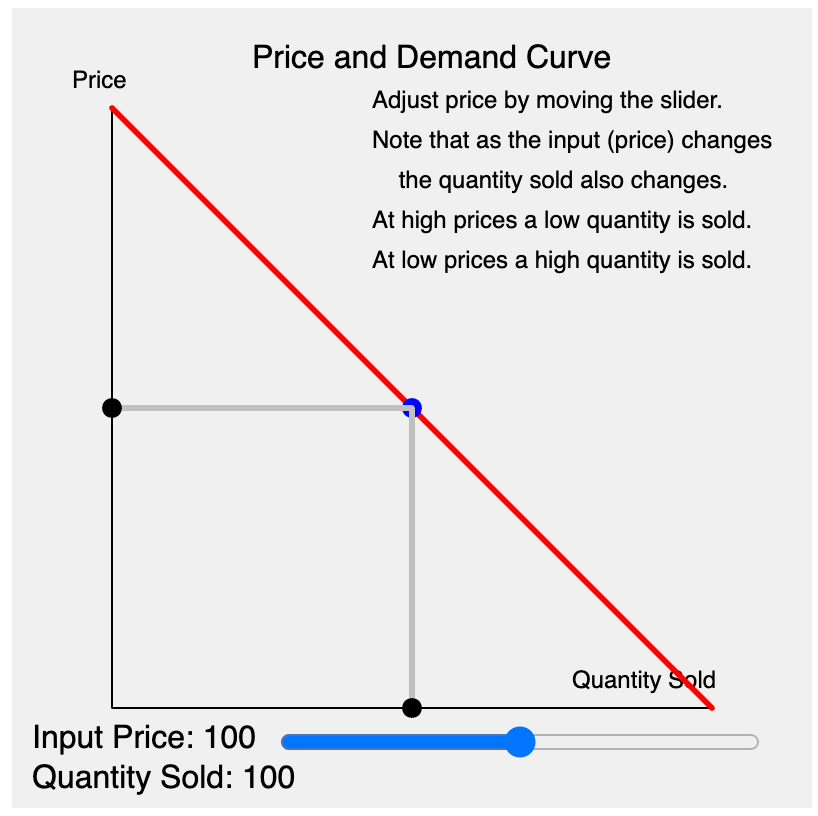
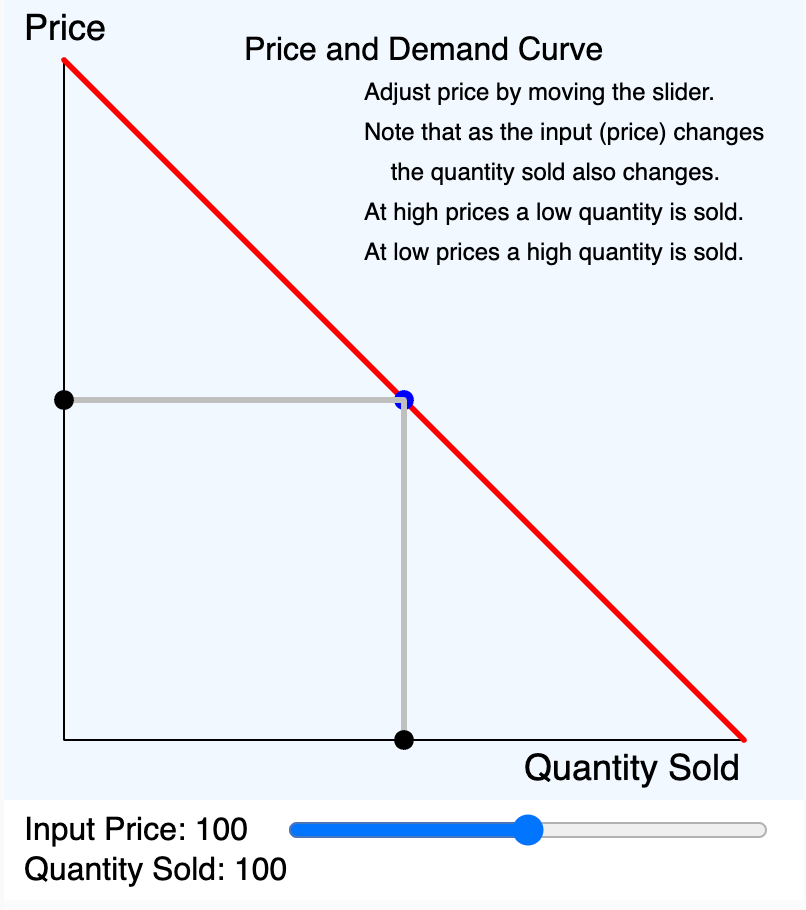
updating content

diff --git a/docs/sims/supply-and-demand/supply-and-demand.js b/docs/sims/supply-and-demand/supply-and-demand.js
@@ -1,6 +1,8 @@
-let width = 400;
-let height = 400;
-let margin = 50; // side around the plot
+let canvasWidth = 400;
+let drawHeight = 400;
+let canvasHeight = 450;
+let sliderLeftMargin = 120;
+let margin = 30; // side around the plot
 let priceSlider;
 let demandCurve;
 let maxPrice = 200;
@@ -10,21 +12,29 @@ let quantity = 100;
 let labelValueMargin = 140
 
 function setup() {
-  const canvas = createCanvas(width, height);
-  canvas.parent('canvas-container');
+  const canvas = createCanvas(canvasWidth, canvasHeight);
+  // canvas.parent('canvas-container');
+  var mainElement = document.querySelector('main');
+  canvas.parent(mainElement);
   textSize(16);
   
   // Create a slider element for price adjustment
   priceSlider = createSlider(0, maxPrice, price);
-  priceSlider.position(labelValueMargin, height - 35);
-  priceSlider.style('width', width - labelValueMargin - 20 + 'px');
+  priceSlider.position(labelValueMargin, drawHeight + 5);
+  priceSlider.size(canvasWidth - labelValueMargin - 20);
   
   // Define the demand curve as a function
   demandCurve = (p) => maxQuantity - p;
 }
 
 function draw() {
-  background(240);
+  // make the background drawing very light blue
+  fill('aliceblue');
+  rect(0, 0, canvasWidth, canvasWidth);
+  // make the background of the controls white
+  fill('white')
+  rect(0, drawHeight, canvasWidth, canvasHeight-drawHeight);
+
   
   // Update quantity based on the current value of the price slider
   price = priceSlider.value();
@@ -33,28 +43,33 @@ function draw() {
   // Draw the axes
   stroke(0);
   strokeWeight(1);
-  line(margin, margin, margin, height - margin); // Vertical Y-axis
+  // Vertical Y-axis
+  line(margin, margin, margin, drawHeight - margin); 
+  
   // Horizontal X axis
-  line(margin, height - margin, width - margin, height - margin);
+  line(margin, drawHeight - margin, canvasWidth - margin, drawHeight - margin);
   strokeWeight(0);
-  text('Price', 30, 40); // Y-axis label
-  text('Quantity Sold', width - margin - 70, height - margin - 10); // X-axis label
+  
+  textSize(18);
+  fill('black')
+  text('Price', 10, 20); // Y-axis label
+  text('Quantity Sold', canvasWidth - margin - 110, drawHeight - 10); // X-axis label
   
   // Draw the demand curve
   stroke(255, 0, 0);
   strokeWeight(3);
-  line(margin, margin, width - margin, height - margin);
+  line(margin, margin, drawHeight - margin, drawHeight - margin);
   
   // Draw a point on the demand curve based on current price and quantity
   fill(0, 0, 255);
   noStroke();
-  x = map(quantity, 0, maxQuantity, margin, height - margin)
+  x = map(quantity, 0, maxQuantity, margin, drawHeight - margin)
   y = map(price, 0, maxPrice, width - margin, margin)
   circle(x,y,10);
   
   stroke('silver');
   line(margin, y, x, y)
-  line(x, y, x, height - margin)
+  line(x, y, x, drawHeight - margin)
   
   fill(0);
   noStroke();
@@ -63,13 +78,14 @@ function draw() {
     map(price, 0, maxPrice, width - margin, margin), 10);
   
   circle(
-    map(quantity, 0, maxQuantity, margin, height - margin), 
-    height - margin, 10);
+    map(quantity, 0, maxQuantity, margin, drawHeight - margin), 
+    drawHeight - margin, 10);
   
   // Text annotations
   noStroke();
   fill(0);
   textSize(16);
+  // title
   text("Price and Demand Curve", 120, 30);
   text(`Input Price: ${price}`, 10, height - 30);
   text(`Quantity Sold: ${quantity}`, 10, height - 10);
@@ -77,9 +93,9 @@ function draw() {
   
   // instructions
   let keyMargin = 180;
-  text(`Adjust price by moving the slider.`,     keyMargin, margin);
-  text(`Note that as the input (price) changes`, keyMargin, margin + 20);
-  text(`    the quantity sold also changes.`,    keyMargin, margin + 40);
-  text(`At high prices a low quantity is sold.`, keyMargin, margin + 60);
-  text(`At low prices a high quantity is sold.`, keyMargin, margin + 80);
+  text(`Adjust price by moving the slider.`,     keyMargin, margin + 20);
+  text(`Note that as the input (price) changes`, keyMargin, margin + 40);
+  text(`    the quantity sold also changes.`,    keyMargin, margin + 60);
+  text(`At high prices a low quantity is sold.`, keyMargin, margin + 80);
+  text(`At low prices a high quantity is sold.`, keyMargin, margin + 100);
 }

diff --git a/docs/sims/template/template.js b/docs/sims/template/template.js
@@ -1,7 +1,7 @@
-canvasWidth = 400;
-drawHeight = 400;
-canvasHeight = 450;
-sliderLeftMargin = 120;
+let canvasWidth = 400;
+let drawHeight = 400;
+let canvasHeight = 450;
+let sliderLeftMargin = 120;
 
 function setup {
     const canvas = createCanvas(canvasWidth, canvasHeight);
